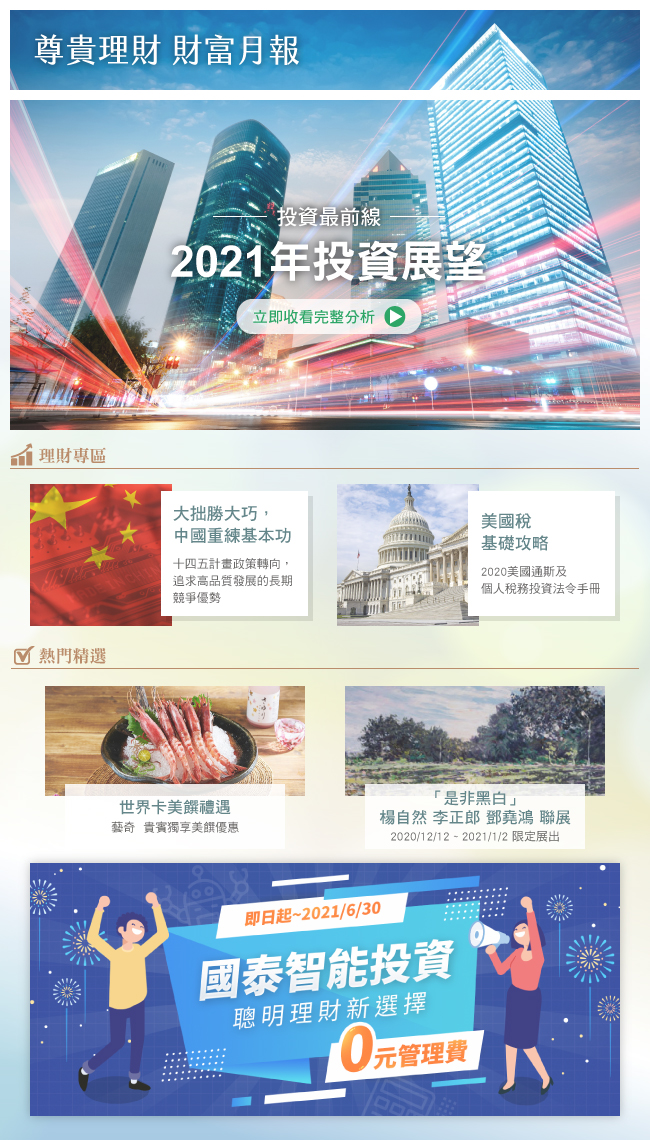
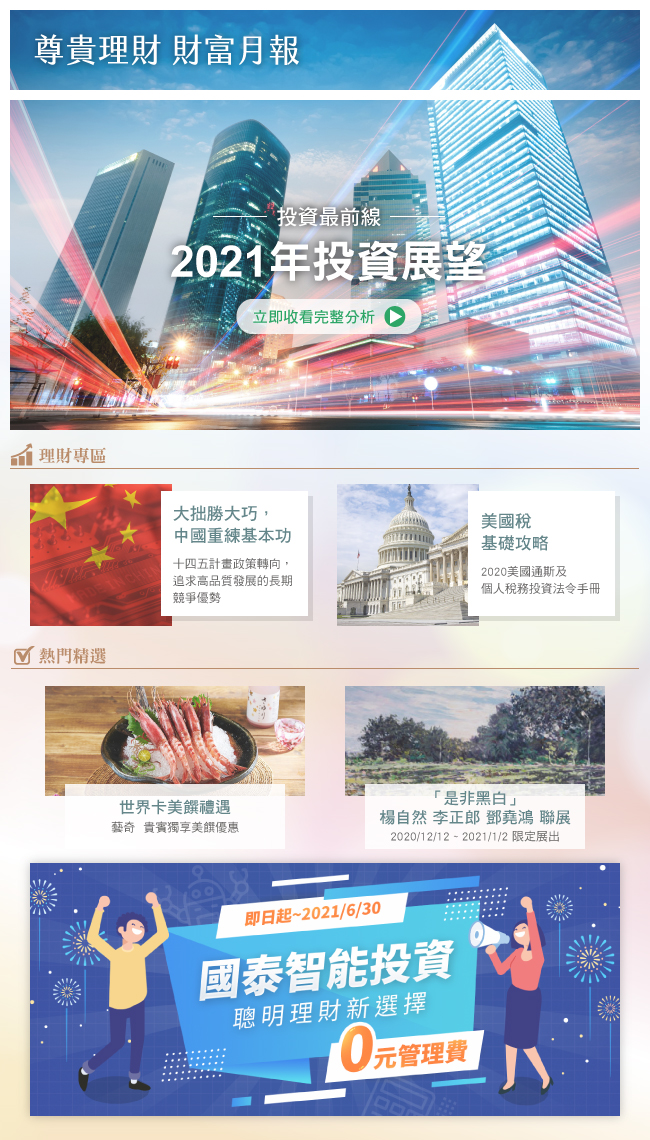
update

Changed region(s): [[0.0, 0.7982, 1.0, 1.0], [0.8923, 0.6754, 1.0, 0.7368]]

diff --git a/Cathay-Weekly20201218mobile/index.html b/Cathay-Weekly20201218mobile/index.html
@@ -178,7 +178,7 @@ font-family:'Microsoft JhengHei',Arial,'微軟正黑體', sans-serif;
               <![endif]-->
               <table border="0" cellpadding="0" cellspacing="0" style="width: 100%;background:#b0b6bd;float:left;text-align:center;height:auto;">
                <tr bgcolor="#FFFFFF">
-      <td height="" align="center" style="color:#FFF; font-size:36px;"><a href="images/Weekly20201218.pdf?CUB_SRC=EDM&CUB_CHL1=URL&CUB_CHL2=01&MA_TK=WM411&CUB_DT=20201221"><img src="images/edm20201218m4.jpg" alt="國泰世華投資研究週報20201218" width="480" height="1165" border="0"/></a></td>
+      <td height="" align="center" style="color:#FFF; font-size:36px;"><a href="images/Weekly20201218.pdf?CUB_SRC=EDM&CUB_CHL1=URL&CUB_CHL2=01&MA_TK=WM411&CUB_DT=20201221"><img src="images/edm20201218m5.jpg" alt="國泰世華投資研究週報20201218" width="480" height="1150" border="0"/></a></td>
     </tr>
               </table>
               <!--[if mso]>
